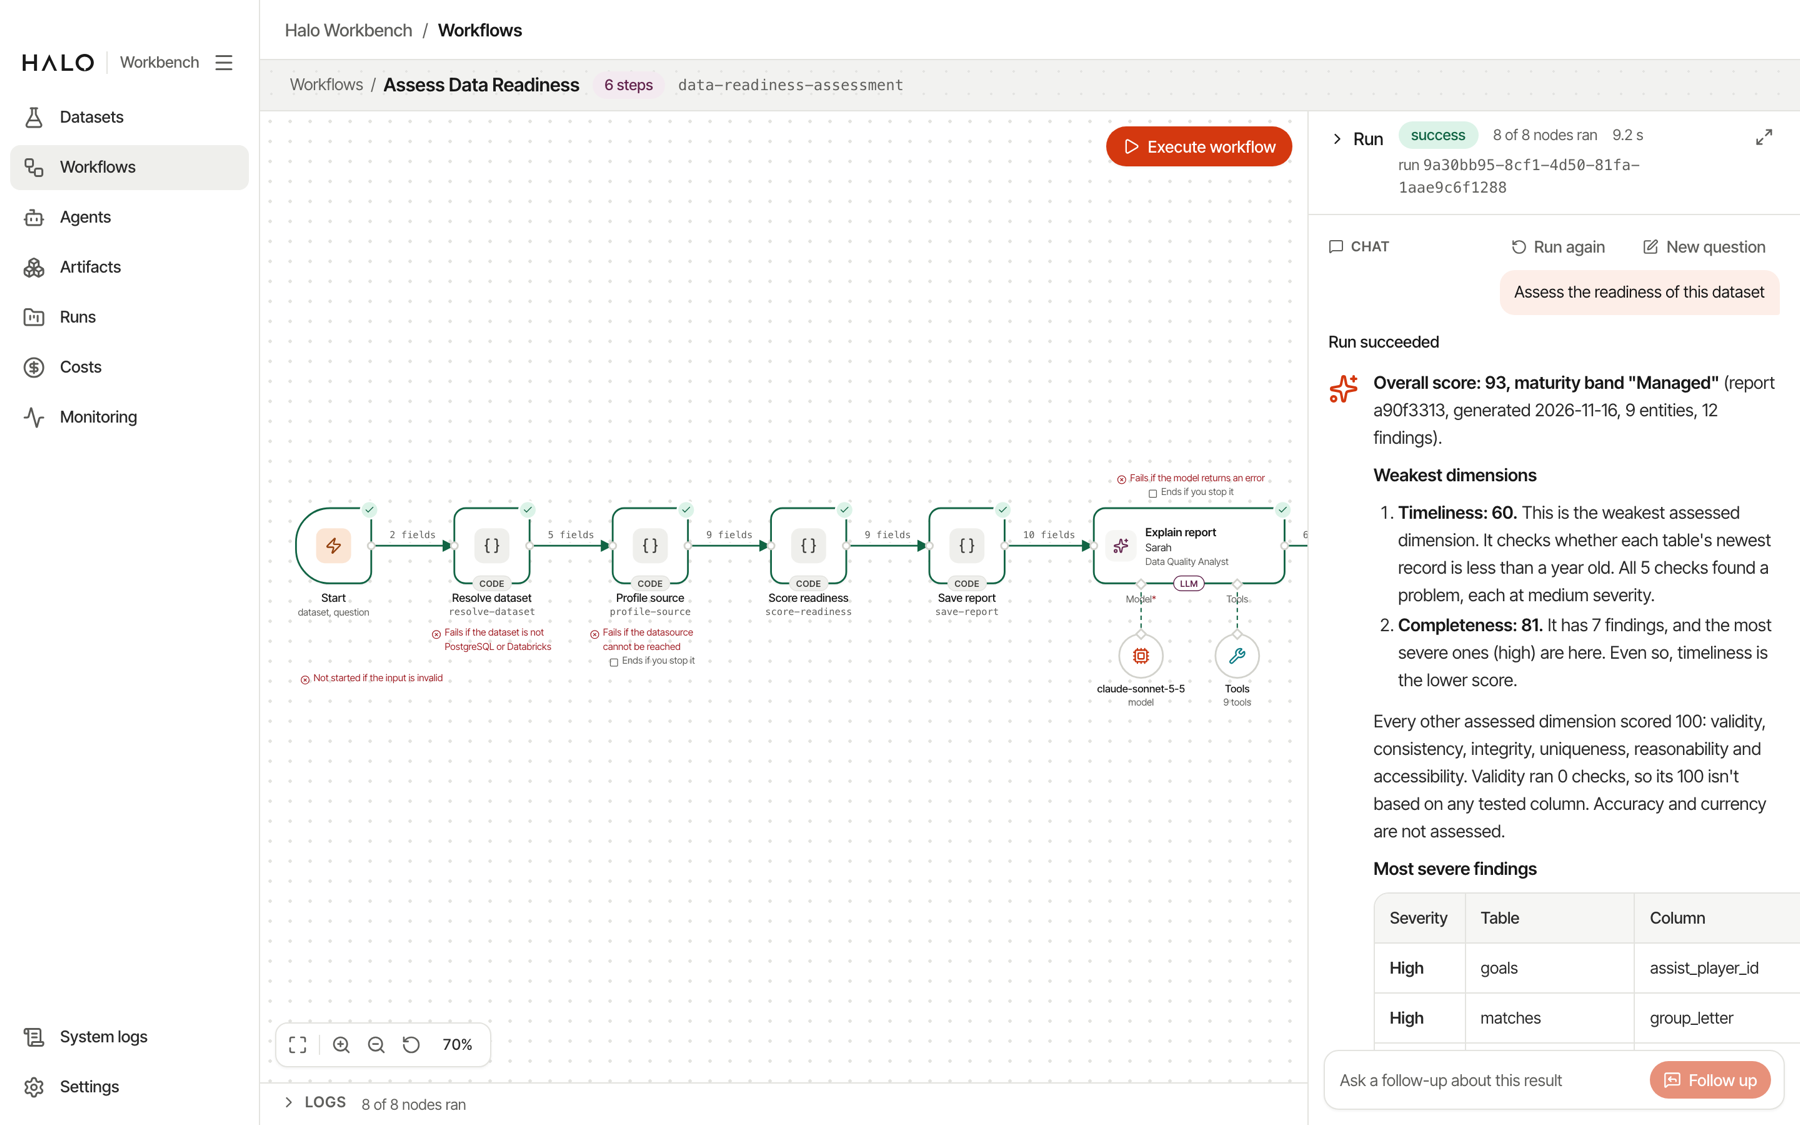
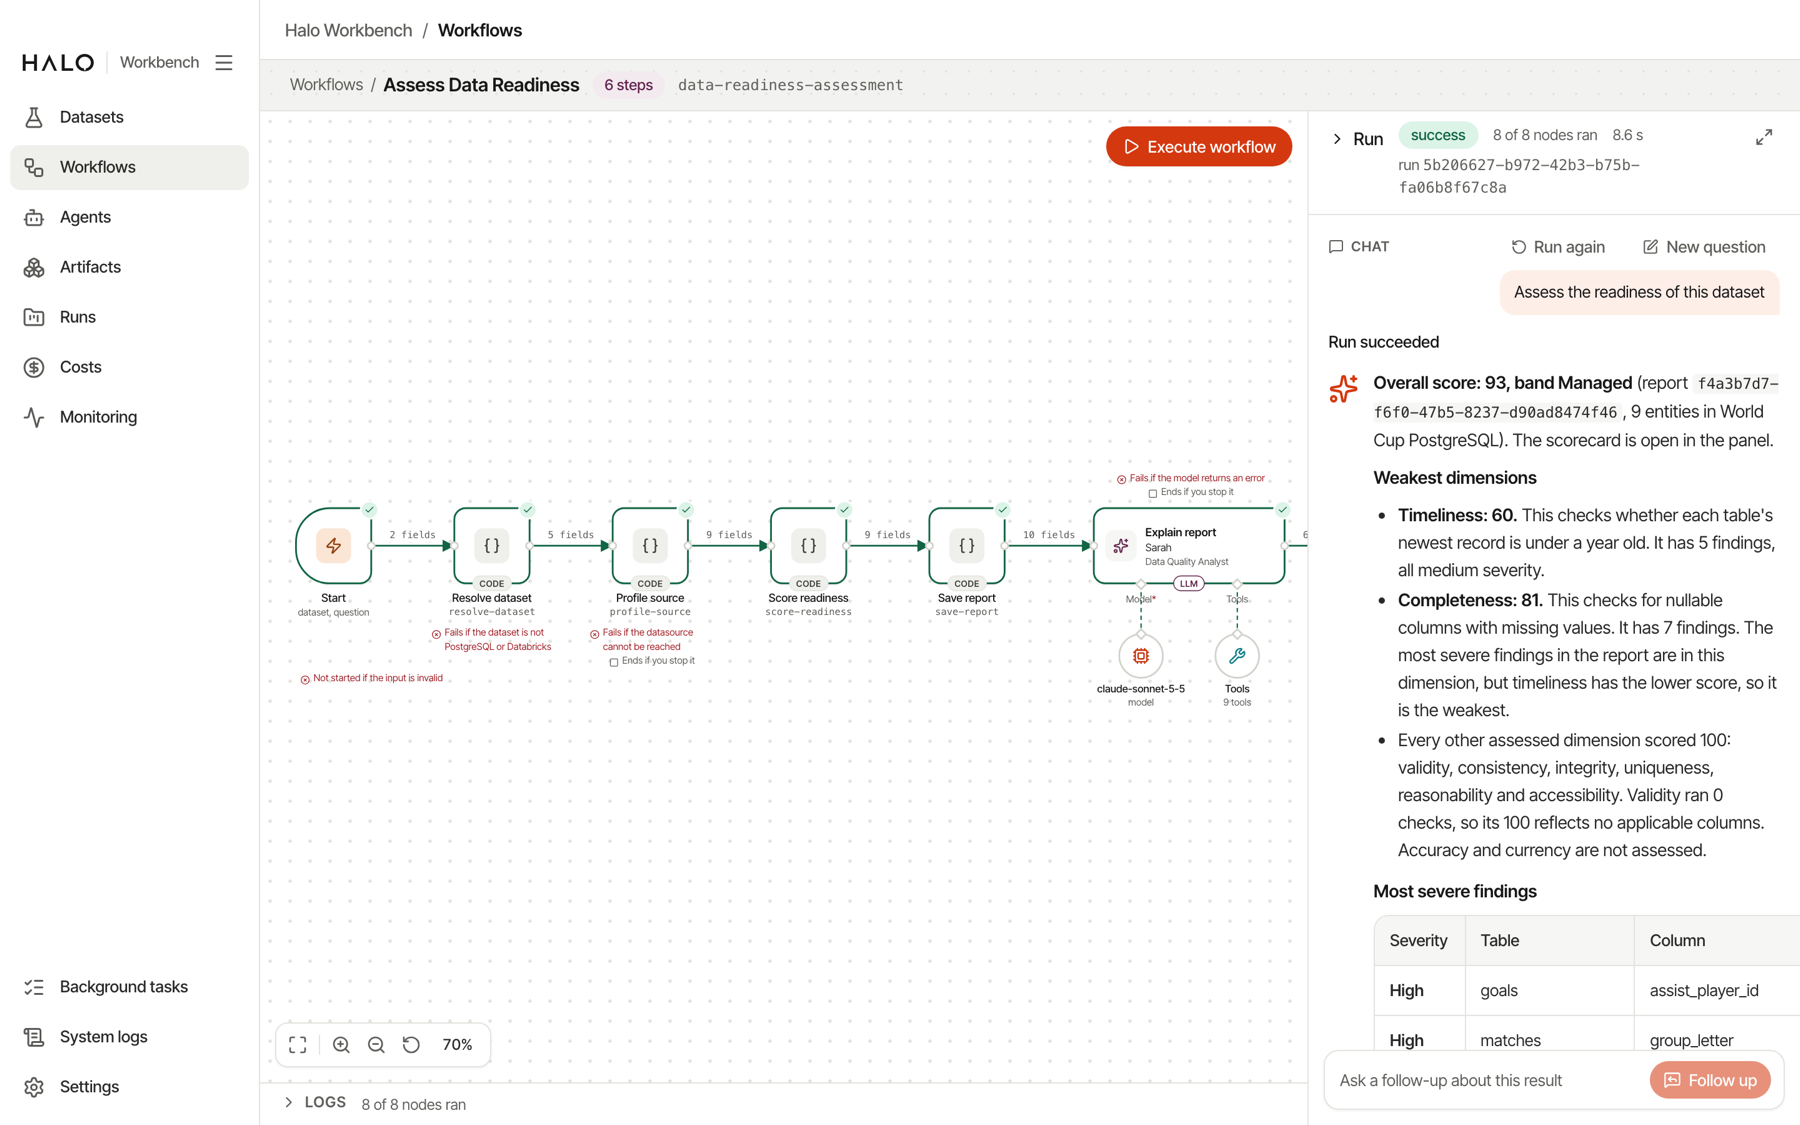
chore(site): re-shoot the screenshots with Background tasks and say runs keep going

diff --git a/site/public/index.html b/site/public/index.html
@@ -170,6 +170,12 @@
               waits for your answer and carries on.
             </p>
             <p class="walk-body">
+              You don't have to watch. Leave the page — or close the window — and the run keeps
+              going; so do a dataset being saved, an eval run or a chart being tailored. The
+              Background tasks list in the sidebar shows what is still working and opens each
+              result when it lands.
+            </p>
+            <p class="walk-body">
               The answer ends with a plain coverage line — which tables were read, and whether
               each query saw the whole table, a ranked top, a sample or a partial result. A
               number built on a sample cannot pass as a whole-table figure.
